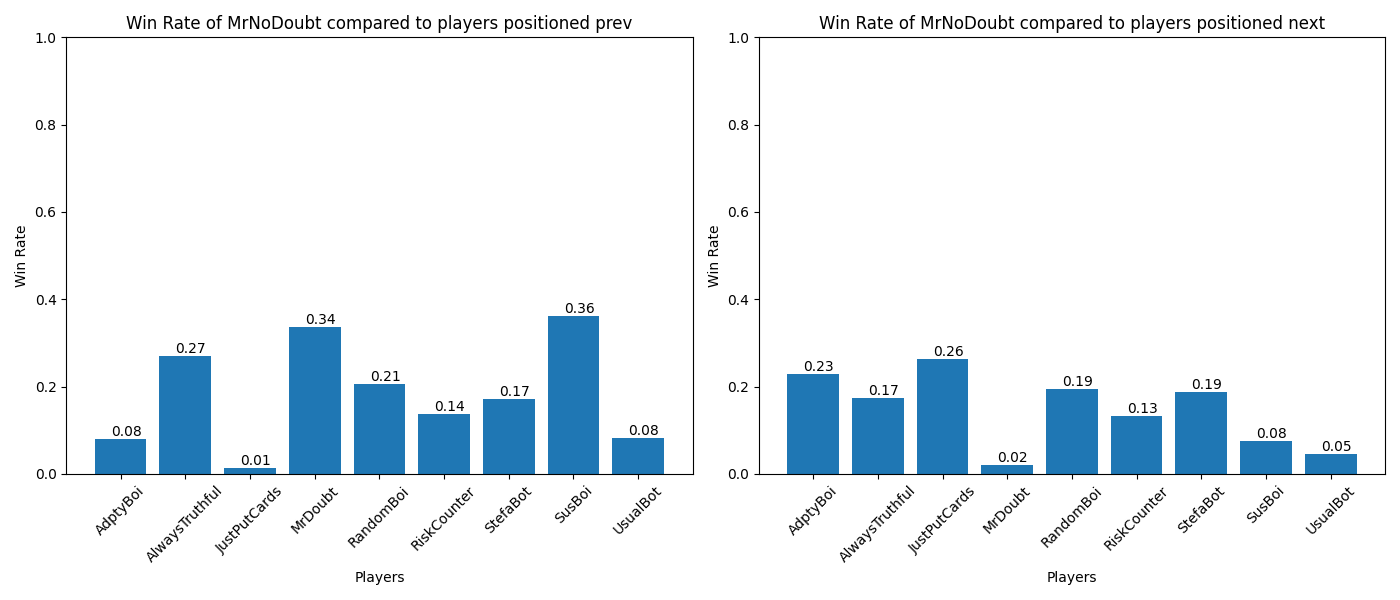
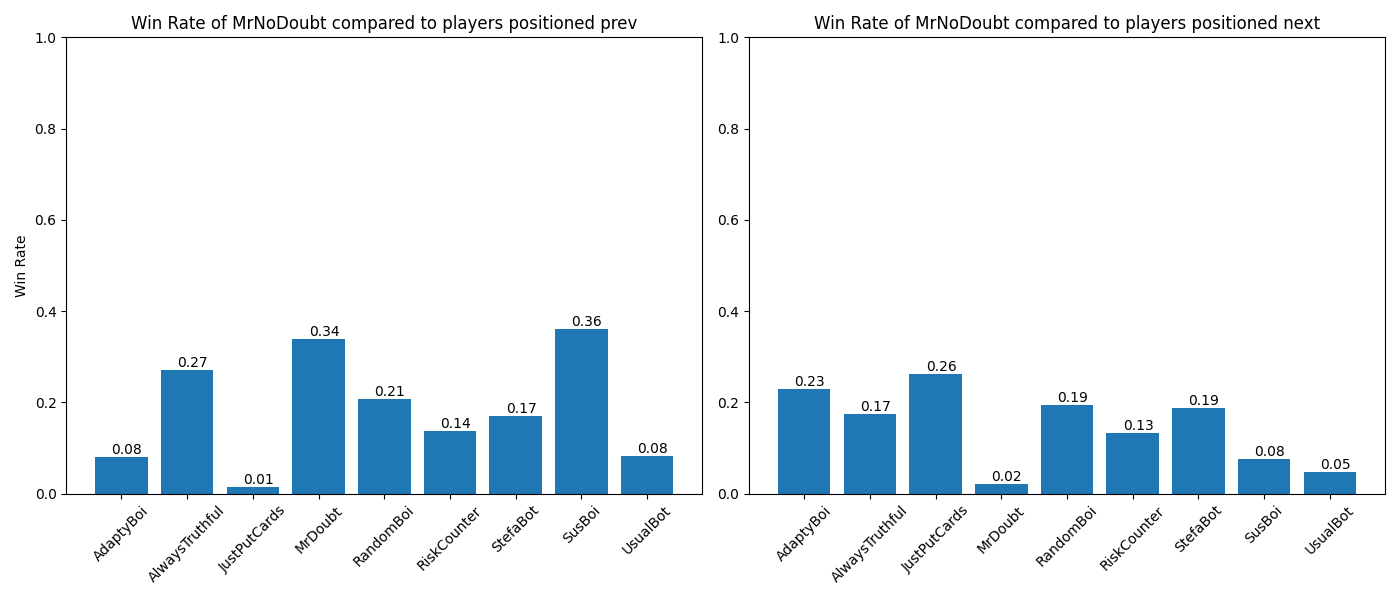
results in readme

diff --git a/graphs/stats.py b/graphs/stats.py
@@ -66,7 +66,6 @@ for player in players:
             prev_win_rates[prev_player] = total_wins / total_games
     plt.subplot(1, 2, 1)
     bars = plt.bar(prev_win_rates.keys(), prev_win_rates.values())
-    plt.xlabel('Players')
     plt.ylabel('Win Rate')
     plt.title(f'Win Rate of {player} compared to players positioned prev')
     plt.xticks(rotation=45)
@@ -85,8 +84,6 @@ for player in players:
             next_win_rates[next_player] = total_wins / total_games
     plt.subplot(1, 2, 2)
     bars = plt.bar(next_win_rates.keys(), next_win_rates.values())
-    plt.xlabel('Players')
-    plt.ylabel('Win Rate')
     plt.title(f'Win Rate of {player} compared to players positioned next')
     plt.xticks(rotation=45)
     plt.ylim(0, 1)  # Setting y-axis limit

diff --git a/README.md b/README.md
@@ -212,3 +212,104 @@ Aggressive when the streak is low otherwise Honest. Calculates the risk value co
 - If prev_player was not playing first turn then check the number of cards of prev_player
   - if prev_player has played 3 cards doubt,
   - otherwise then with 50% probability be honest or doubt 
+
+
+# Result
+
+The overall results are depicted on this plot.
+
+![Winrate](graphs/win_rate_bar_graph.png)
+
+We can also examine the remaining cards per game:
+
+![Remaining Cards](graphs/avg_cards_bar_graph.png)
+
+## Individual Results
+
+Here, instead, we can observe the individual performance of each bot.
+
+<div style="display: flex; align-items: center; margin-top: 40px; margin-bottom: 5px;">
+    <img src="imgs/RandomBoi.png" width="50"  style="border-radius: 50%; margin-bottom: 12px; border: 4px solid lightblue;">
+    <div style="margin-left: 20px; font-size: 32px;">
+        <p><b>RandomBoi</b></p>
+    </div>
+</div>
+
+![RandomBoi](graphs/RandomBoi_win_rate_comparison.png)
+
+<div style="display: flex; align-items: center; margin-top: 40px; margin-bottom: 5px;">
+    <img src="imgs/AlwaysTruthful.png" width="50"  style="border-radius: 50%; margin-bottom: 12px; border: 4px solid lightblue;">
+    <div style="margin-left: 20px; font-size: 32px;">
+        <p><b>AlwaysTruthful</b></p>
+    </div>
+</div>
+
+![AlwaysTruthful](graphs/AlwaysTruthful_win_rate_comparison.png)
+
+<div style="display: flex; align-items: center; margin-top: 40px; margin-bottom: 5px;">
+    <img src="imgs/MrNoDoubt.png" width="50"  style="border-radius: 50%; margin-bottom: 12px; border: 4px solid lightblue;">
+    <div style="margin-left: 20px; font-size: 32px;">
+        <p><b>MrNoDoubt</b></p>
+    </div>
+</div>
+
+![MrNoDoubt](graphs/MrNoDoubt_win_rate_comparison.png)
+
+<div style="display: flex; align-items: center; margin-top: 40px; margin-bottom: 5px;">
+    <img src="imgs/JustPutCards.png" width="50"  style="border-radius: 50%; margin-bottom: 12px; border: 4px solid lightblue;">
+    <div style="margin-left: 20px; font-size: 32px;">
+        <p><b>JustPutCards</b></p>
+    </div>
+</div>
+
+![JustPutCards](graphs/JustPutCards_win_rate_comparison.png)
+
+<div style="display: flex; align-items: center; margin-top: 40px; margin-bottom: 5px;">
+    <img src="imgs/AdaptyBoi.png" width="50"  style="border-radius: 50%; margin-bottom: 12px; border: 4px solid lightblue;">
+    <div style="margin-left: 20px; font-size: 32px;">
+        <p><b>AdaptyBoi</b></p>
+    </div>
+</div>
+
+![AdaptyBoi](graphs/AdaptyBoi_win_rate_comparison.png)
+
+<div style="display: flex; align-items: center; margin-top: 40px; margin-bottom: 5px;">
+    <img src="imgs/SusBoi.png" width="50"  style="border-radius: 50%; margin-bottom: 12px; border: 4px solid lightblue;">
+    <div style="margin-left: 20px; font-size: 32px;">
+        <p><b>SusBoi</b></p>
+    </div>
+</div>
+
+![SusBoi](graphs/SusBoi_win_rate_comparison.png)
+
+<div style="display: flex; align-items: center; margin-top: 40px; margin-bottom: 5px;">
+    <img src="imgs/UsualBot.png" width="50"  style="border-radius: 50%; margin-bottom: 12px; border: 4px solid lightblue;">
+    <div style="margin-left: 20px; font-size: 32px;">
+        <p><b>UsualBot</b></p>
+    </div>
+</div>
+
+![UsualBot](graphs/UsualBot_win_rate_comparison.png)
+
+<div style="display: flex; align-items: center; margin-top: 40px; margin-bottom: 5px;">
+    <img src="imgs/RiskCounter.png" width="50"  style="border-radius: 50%; margin-bottom: 12px; border: 4px solid lightblue;">
+    <div style="margin-left: 20px; font-size: 32px;">
+        <p><b>RiskCounter</b></p>
+    </div>
+</div>
+
+![RiskCounter](graphs/RiskCounter_win_rate_comparison.png)
+
+<div style="display: flex; align-items: center; margin-top: 40px; margin-bottom: 5px;">
+    <img src="imgs/StefaBot.png" width="50"  style="border-radius: 50%; margin-bottom: 12px; border: 4px solid lightblue;">
+    <div style="margin-left: 20px; font-size: 32px;">
+        <p><b>StefaBot</b></p>
+    </div>
+</div>
+
+![StefaBot](graphs/StefaBot_win_rate_comparison.png)
+
+# Final Conclusion
+- The game heavily depends on the chosen **position** at the beginning of the match and consequently on the players preceding and succeeding you. 
+- As evident from the win rate graphs of each bot, there are delineations between "**aggressive**" bots (with a tendency to bluff) and "**passive**" bots (inclined to play honestly: doubting and playing cards associated with the correct number). Typically, aggressive bots exhibit greater variance in win rate concerning succeeding players, while passive bots show more variance concerning preceding players. Aggressive players need to pay closer attention to succeeding players, while passive ones focus on preceding players. 
+- At present, the best algorithm appears to be **AdaptyBoi**, which strikes a good balance between aggressive and passive playstyles. Hence, identifying the strategies of the players around you is crucial and adapting accordingly. Unfortunately, there isn't a method capable of decisively winning against all types of opponents, considering the game's reliance on luck.
